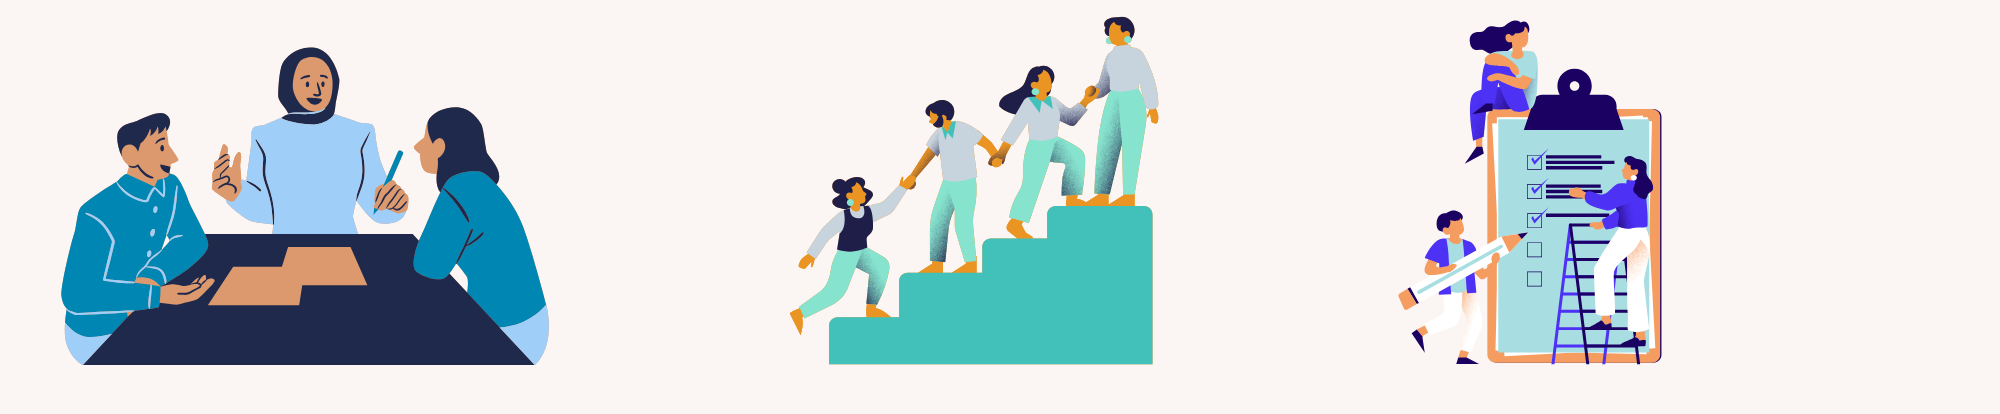
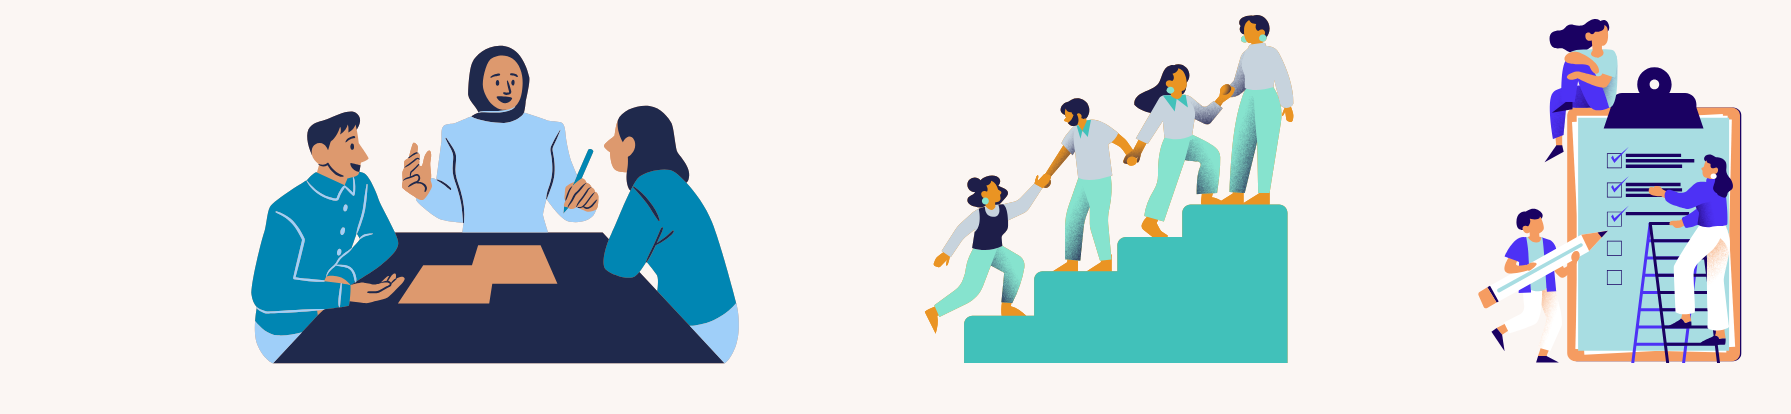
Changed grid by place method, and adjusted placing of picture

diff --git a/ems_GUI.py b/ems_GUI.py
@@ -7,142 +7,146 @@ window = CTk()
 #Fullscreen window:
 def maximize_window():
     window.state('zoomed')
-window.after(10,maximize_window)
+window.after(10, maximize_window)
 
 #Background colour of window:                               
-window.configure(fg_color = "cadet blue")
+window.configure(fg_color="cadet blue")
 
-#window title:
+#Window title:
 window.title("Employee Management System")
 
 #GUI image:
-image_1 = CTkImage(Image.open("1.png"), size = (920,200))
-image_label_1 = CTkLabel(window, image = image_1, text = " ", fg_color = "white") 
-image_label_1.grid(row=0, column=0)
+image_1 = CTkImage(Image.open("1.png"), size=(920, 200))
+image_label_1 = CTkLabel(window, image=image_1, text=" ", fg_color="white", width=920, height=200)  # Set width and height here
+image_label_1.place(x=0, y=0, anchor="nw") 
 
-image_2 = CTkImage(Image.open("2.png"), size = (920,200))
-image_label_2 = CTkLabel(window, image = image_2, text = " ", fg_color = "white") 
-image_label_2.grid(row=0, column=1)
+image_2 = CTkImage(Image.open("2.png"), size=(920, 200))
+image_label_2 = CTkLabel(window, image=image_2, text=" ", fg_color="white", width=920, height=200)  # Set width and height here
+image_label_2.place(relx=1.0, y=0, anchor="ne")
 
-#Left frame(frame-1):
-left_frame = CTkFrame(window, fg_color = "cadet blue")
-left_frame.grid(row=1, column=0)
+################################################################Left frame(frame-1)######################################################################################
+left_frame = CTkFrame(window, fg_color="cadet blue", width=940, height=600)
+left_frame.place(x=10, y=210)  # Positioned below image_label_1
 
-#Label and entry inside left frame: 
-id_label = CTkLabel(left_frame, text = 'Id', fg_color = 'cadet blue', text_color = 'white', font = ('aerial', 18, 'bold'))
-id_label.grid(row=0, column=0, padx=20,  pady=15, sticky='w')
+#Labels: 
+id_label = CTkLabel(left_frame, text='Id', fg_color='cadet blue', text_color='white', font=('aerial', 20, 'bold'))
+id_label.place(x=60, y=45)
 
-id_entry = CTkEntry(left_frame, font = ('helvetica', 15, 'bold'), fg_color = 'white', text_color = 'black', width = 180)
-id_entry.grid(row=0, column=1)
+name_label = CTkLabel(left_frame, text='Name', fg_color='cadet blue', text_color='white', font=('aerial', 20, 'bold'))
+name_label.place(x=60, y=140)
 
-name_label = CTkLabel(left_frame, text = 'Name', fg_color = 'cadet blue', text_color = 'white', font = ('aerial', 18, 'bold'))
-name_label.grid(row=1, column=0, padx=20, pady=15, sticky='w')
+phone_label = CTkLabel(left_frame, text='Phone', fg_color='cadet blue', text_color='white', font=('aerial', 20, 'bold'))
+phone_label.place(x=60, y=235)
 
-name_entry = CTkEntry(left_frame, font = ('helvetica', 15, 'bold'), fg_color = 'white', text_color = 'black', width = 180)
-name_entry.grid(row=1, column=1)
+role_label = CTkLabel(left_frame, text='Role', fg_color='cadet blue', text_color='white', font=('aerial', 20, 'bold'))
+role_label.place(x=60, y=330)
 
-phone_label = CTkLabel(left_frame, text = 'Id', fg_color = 'cadet blue', text_color = 'white', font = ('aerial', 18, 'bold'))
-phone_label.grid(row=2, column=0, padx=20, pady=15, sticky='w')
+gender_label = CTkLabel(left_frame, text='Gender', fg_color='cadet blue', text_color='white', font=('aerial', 20, 'bold'))
+gender_label.place(x=60, y=425)
 
-phone_entry = CTkEntry(left_frame, font = ('helvetica', 15, 'bold'), fg_color = 'white', text_color = 'black', width = 180)
-phone_entry.grid(row=2, column=1)
+salary_label = CTkLabel(left_frame, text='Salary', fg_color='cadet blue', text_color='white', font=('aerial', 20, 'bold'))
+salary_label.place(x=60, y=520)
 
-role_label = CTkLabel(left_frame, text = 'Role', fg_color = 'cadet blue', text_color = 'white', font = ('aerial', 18, 'bold'))
-role_label.grid(row=3, column=0, padx=20, pady=15, sticky='w')
+#Entries and comboboxes:
+id_entry = CTkEntry(left_frame, font=('helvetica', 18, 'bold'), fg_color='white', text_color='black', width=300, height=45)
+id_entry.place(x=230, y=40)
 
-role_options = ['Business Analyst', 'Cloud Architect', 'Relational Manager', 'Data Scientist', 'DevOps Engineer', 'IT consultant', 'Network Engineer', 'Software Engineer', 'UX/UI Designer', 'Web Developer',]
-role_box = CTkComboBox(left_frame, values = role_options, font = ('helvetica', 15, 'bold'), fg_color = 'white', text_color = 'black', width = 180, state = 'readonly')
-role_box.grid(row=3, column=1)
+name_entry = CTkEntry(left_frame, font=('helvetica', 18, 'bold'), fg_color='white', text_color='black', width=300, height=45)
+name_entry.place(x=230, y=135)
+
+phone_entry = CTkEntry(left_frame, font=('helvetica', 18, 'bold'), fg_color='white', text_color='black', width=300, height=45)
+phone_entry.place(x=230, y=230)
+
+role_options = ['Business Analyst', 'Cloud Architect', 'Relational Manager', 'Data Scientist', 'DevOps Engineer', 'IT consultant', 'Network Engineer', 'Software Engineer', 'UX/UI Designer', 'Web Developer']
+role_box = CTkComboBox(left_frame, values=role_options, font=('helvetica', 18, 'bold'), fg_color='white', text_color='black', state='readonly', width=300, height=45)
+role_box.place(x=230, y=325)
 role_box.set(role_options[0])
 
-gender_label = CTkLabel(left_frame, text = 'Gender', fg_color = 'cadet blue', text_color = 'white', font = ('aerial', 18, 'bold'))
-gender_label.grid(row=4, column=0, padx=20, pady=15, sticky='w')
-
 gender_options = ['Male', 'Female', 'Others']
-gender_box = CTkComboBox(left_frame, values = gender_options, font = ('helvetica', 15, 'bold'), fg_color = 'white', text_color = 'black', width = 180, state = 'readonly')
-gender_box.grid(row=4, column=1)
+gender_box = CTkComboBox(left_frame, values=gender_options, font=('helvetica', 18, 'bold'), fg_color='white', text_color='black', state='readonly', width=300, height=45)
+gender_box.place(x=230, y=420)
 gender_box.set(gender_options[0])
 
-salary_label = CTkLabel(left_frame, text = 'Salary', fg_color = 'cadet blue', text_color = 'white', font = ('aerial', 18, 'bold'))
-salary_label.grid(row=5, column=0, padx=20, pady=15, sticky='w')
+salary_entry = CTkEntry(left_frame, font=('helvetica', 18, 'bold'), fg_color='white', text_color='black', width=300, height=45)
+salary_entry.place(x=230, y=515)
 
-salary_entry = CTkEntry(left_frame, font = ('helvetica', 15, 'bold'), fg_color = 'white', text_color = 'black', width = 180)
-salary_entry.grid(row=5, column=1)
+#####################################################################Right frame(frame-2)################################################################################
+right_frame = CTkFrame(window, fg_color="light grey", width=1090, height=700)
+right_frame.place(x=590, y=210)  # Positioned below image_label_2
 
-#Right frame(frame-2):
-right_frame = CTkFrame(window, fg_color = "light grey")
-right_frame.grid(row=1, column=1)
-
-#Adding label and entry inside right frame:
+#Entries and comboboxes:
 search_options = ['Id', 'Name', 'Phone', 'Role', 'Gender', 'Salary']
-search_box = CTkComboBox(right_frame, values = search_options, font = ('helvetica', 15, 'bold'), fg_color = 'white', text_color = 'black', state = 'readonly')
-search_box.grid(row=0, column=0)
+search_box = CTkComboBox(right_frame, values=search_options, font=('helvetica', 15, 'bold'), fg_color='white', text_color='black', state='readonly', width=200)
+search_box.place(x=30, y=10)
 search_box.set('Search By')
 
-search_Entry = CTkEntry(right_frame, font = ('helvetica', 15, 'bold'), fg_color = 'white', text_color = 'black')
-search_Entry.grid(row=0, column=1)
+search_Entry = CTkEntry(right_frame, font=('helvetica', 15, 'bold'), fg_color='white', text_color='black', width=200)
+search_Entry.place(x=300, y=10)
 
-#Creating Buttons in right frame portion:
-search_button = CTkButton(right_frame, text = "Search", width = 100)
-search_button.grid(row=0, column=2)
+#Buttons:
+search_button = CTkButton(right_frame, text="Search", width=200)
+search_button.place(x=575, y=10)
 
-showall_button = CTkButton(right_frame, text = "Show All", width = 100)
-showall_button.grid(row=0, column=3, pady=5) #padding in one button, that same padding will be applied to all others.
+showall_button = CTkButton(right_frame, text="Show All", width=200)
+showall_button.place(x=850, y=10)
 
-#Accessing scrollbar class and keeping it in right frame:
-scrollbar = ttk.Scrollbar(right_frame, orient = VERTICAL)
-scrollbar.grid(row=1, column=4, sticky='ns')
+#Accessing scrollbar class:
+scrollbar = ttk.Scrollbar(right_frame, orient=VERTICAL)
+scrollbar.place(x=1605, y=71)
 
 #Adding a tree:
-tree = ttk.Treeview(right_frame, height = 13)
-tree.grid(row=1, column = 0, columnspan=4)
+tree = ttk.Treeview(right_frame, height=13, yscrollcommand=scrollbar.set)
+tree.place(x=4, y=70, width=1600, height=871)
 
-#columns in tree:
+# Configure the scrollbar to scroll the Treeview
+scrollbar.config(command=tree.yview)  # This links the scrollbar to the vertical scroll of the treeview
+
+#Columns in tree:
 tree['columns'] = ('Id', 'Name', 'Phone', 'Role', 'Gender', 'Salary')
 
 #Headings in tree:
-tree.heading('Id', text = 'Id')
-tree.heading('Name', text = 'Name')
-tree.heading('Phone', text = 'Phone')
-tree.heading('Role', text = 'Role')
-tree.heading('Gender', text = 'Gender')
-tree.heading('Salary', text = 'Salary')
+tree.heading('Id', text='Id')
+tree.heading('Name', text='Name')
+tree.heading('Phone', text='Phone')
+tree.heading('Role', text='Role')
+tree.heading('Gender', text='Gender')
+tree.heading('Salary', text='Salary')
 
 #Process to remove extra columns:
-tree.config(show = 'headings')
+tree.config(show='headings')
 
-#changing widths of columns:
-tree.column('Id', width = 140)
-tree.column('Name', width = 160)
-tree.column('Phone', width = 160)
-tree.column('Role', width = 200)
-tree.column('Gender', width = 140)
-tree.column('Salary', width = 140)
+#Changing widths of columns:
+tree.column('Id', width=140)
+tree.column('Name', width=160)
+tree.column('Phone', width=160)
+tree.column('Role', width=200)
+tree.column('Gender', width=140)
+tree.column('Salary', width=140)
 
 #Styling the tree:
 style = ttk.Style()
 
-#changing font of treeview heading:
-style.configure('Treeview.Heading', font = ("aerial", 18, "bold"))
+#Changing font of treeview heading:
+style.configure('Treeview.Heading', font=("aerial", 18, "bold"))
 
-#Button frame(frame-3):
-button_frame = CTkFrame(window, fg_color = 'cadet blue')
-button_frame.grid(row=2, column=0, columnspan=2)
+###########################################################################Below frame(Frame-3)##########################################################################
+button_frame = CTkFrame(window, fg_color="cadet blue", width=1870, height=80)
+button_frame.place(x=10, y=840)  # Positioned at the bottom
 
-#Buttons in frame-3:
-new_button = CTkButton(button_frame, text = 'New Employee', font = ('aerial', 15, 'bold'), width = 160, corner_radius = 15)
-new_button.grid(row=0, column=0, pady=5)
+#Buttons:
+new_button = CTkButton(button_frame, text='New Employee', font=('aerial', 15, 'bold'), width=200, height=35, corner_radius=15)
+new_button.place(x=50, y=10)
 
-add_button = CTkButton(button_frame, text = 'Add Employee', font = ('aerial', 15, 'bold'), width = 160, corner_radius = 15)
-add_button.grid(row=0, column=1, padx=5, pady=5)
+add_button = CTkButton(button_frame, text='Add Employee', font=('aerial', 15, 'bold'), width=200, height=35, corner_radius=15)
+add_button.place(x=400, y=10)
 
-update_button = CTkButton(button_frame, text = 'Update Employee', font = ('aerial', 15, 'bold'), width = 160, corner_radius = 15)
-update_button.grid(row=0, column=2, padx=5, pady=5)
+update_button = CTkButton(button_frame, text='Update Employee', font=('aerial', 15, 'bold'), width=200, height=35, corner_radius=15)
+update_button.place(x=750, y=10)
 
-delete_button = CTkButton(button_frame, text = 'Delete Employee', font = ('aerial', 15, 'bold'), width = 160, corner_radius = 15)
-delete_button.grid(row=0, column=3, padx=5, pady=5)
+delete_button = CTkButton(button_frame, text='Delete Employee', font=('aerial', 15, 'bold'), width=200, height=35, corner_radius=15)
+delete_button.place(x=1100, y=10)
 
-deleteall_button = CTkButton(button_frame, text = 'Delete All', font = ('aerial', 15, 'bold'), width = 160, corner_radius = 15)
-deleteall_button.grid(row=0, column=4, padx=5, pady=5)
+deleteall_button = CTkButton(button_frame, text='Delete All', font=('aerial', 15, 'bold'), width=200, height=35, corner_radius=15)
+deleteall_button.place(x=1420, y=10)
 
 window.mainloop()
